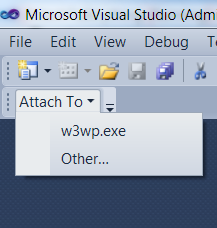
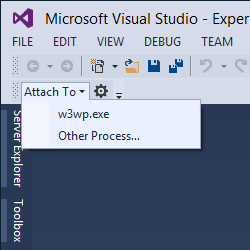
Reverted toolbar location as suggested by @JonAnders.

diff --git a/AttachToAnything/AttachToAnythingPackage.cs b/AttachToAnything/AttachToAnythingPackage.cs
@@ -45,22 +45,31 @@ namespace AttachToAnything {
             _controller = new AttachToAnythingController(this, (DTE)GetService(typeof(DTE)), optionsPage, new ProcessWaitSource(logger), logger);
 
             // Add our command handlers for menu (commands must exist in the .vsct file)
-            var mcs = GetService(typeof(IMenuCommandService)) as OleMenuCommandService;
-            if (null == mcs)
+            var menuCommandService = GetService(typeof(IMenuCommandService)) as OleMenuCommandService;
+            if (null == menuCommandService)
                 return;
+            
+            SetupAttachCommand(menuCommandService);
+            SetupOptionsCommand(menuCommandService);
+        }
 
-            var dynamicItemRootId = new CommandID(GuidList.CommandSet, (int)PkgCmdIDList.AttachToDynamicStub);
+        private void SetupAttachCommand(OleMenuCommandService menuCommandService) {
+            var dynamicItemRootId = new CommandID(GuidList.Commands, (int) CommandIDs.AttachToDynamicStub);
             var dynamicMenuCommand = new DynamicMenuCommand(
-                DynamicItemInvokeCallback,
+                (sender, e) => {
+                    var invokedCommand = (DynamicMenuCommand)sender;
+                    _controller.HandleAttachTo(invokedCommand.Text);
+                },
                 dynamicItemRootId,
                 index => _controller.GetTargets().ElementAtOrDefault(index)
             );
-            mcs.AddCommand(dynamicMenuCommand);
+            menuCommandService.AddCommand(dynamicMenuCommand);
         }
 
-        private void DynamicItemInvokeCallback(object sender, EventArgs e) {
-            var invokedCommand = (DynamicMenuCommand)sender;
-            _controller.Process(invokedCommand.Text);
+        private void SetupOptionsCommand(OleMenuCommandService menuCommandService) {
+            var optionsCommandId = new CommandID(GuidList.Commands, (int)CommandIDs.Options);
+            var optionsCommand = new OleMenuCommand((sender, e) => _controller.HandleOptions(), optionsCommandId);
+            menuCommandService.AddCommand(optionsCommand);
         }
     }
 }

diff --git a/AttachToAnything/AttachToAnythingController.cs b/AttachToAnything/AttachToAnythingController.cs
@@ -4,8 +4,6 @@ using System.IO;
 using System.Linq;
 using System.Threading;
 using System.Threading.Tasks;
-using System.Windows;
-using System.Windows.Forms;
 using System.Windows.Threading;
 using AttachToAnything.Internal;
 using AttachToAnything.UI;
@@ -17,7 +15,6 @@ using Process = EnvDTE.Process;
 namespace AttachToAnything {
     public class AttachToAnythingController {
         private const string OpenDialogTarget = "Other Process…";
-        private const string OpenOptionsTarget = "Options…";
 
         private readonly Package _package;
         private readonly DTE _dte;
@@ -34,23 +31,22 @@ namespace AttachToAnything {
         }
 
         public IEnumerable<string> GetTargets() {
-            return _options.Targets.Concat(new[] { OpenDialogTarget, OpenOptionsTarget });
+            return _options.Targets.Concat(new[] { OpenDialogTarget });
         }
 
-        public void Process(string target) {
+        public void HandleAttachTo(string target) {
             if (target == OpenDialogTarget) {
                 _logger.WriteLine("Opening 'Attach to Process' dialog…");
                 _dte.ExecuteCommand("Tools.AttachtoProcess");
                 return;
             }
-
-            if (target == OpenOptionsTarget) {
-                _logger.WriteLine("Opening Options page…");
-                _package.ShowOptionPage(typeof(AttachTargetOptionPage));
-                return;
-            }
-
+            
             AttachTo(target);
+        }
+
+        public void HandleOptions() {
+            _logger.WriteLine("Opening Options page…");
+            _package.ShowOptionPage(typeof(AttachTargetOptionPage));
         }
 
         private void AttachTo(string processName) {

diff --git a/AttachToAnything/Guids.cs b/AttachToAnything/Guids.cs
@@ -10,6 +10,6 @@ namespace AttachToAnything
         public const string PackageString = "ef909810-3edb-49c8-81a1-1f05310780c7";
         public const string CommandSetString = "65ba0228-4ea4-439d-ad77-8279243d8371";
 
-        public static readonly Guid CommandSet = new Guid(CommandSetString);
+        public static readonly Guid Commands = new Guid(CommandSetString);
     };
 }

diff --git a/AttachToAnything/Properties/AssemblyInfo.cs b/AttachToAnything/Properties/AssemblyInfo.cs
@@ -30,5 +30,5 @@ using System.Runtime.InteropServices;
 // by using the '*' as shown below:
 
 // Please keep in sync with vsixmanifest
-[assembly: AssemblyVersion("1.1.0")]
-[assembly: AssemblyFileVersion("1.1.0")]
+[assembly: AssemblyVersion("1.1.5")]
+[assembly: AssemblyFileVersion("1.1.5")]

diff --git a/AttachToAnything/PkgCmdID.cs b/AttachToAnything/PkgCmdID.cs
@@ -3,7 +3,8 @@
 
 using System;
 namespace AttachToAnything {
-    internal static class PkgCmdIDList {
+    internal static class CommandIDs {
         public const uint AttachToDynamicStub = 0x1600;
+        public const uint Options = 0x1700;
     };
 }
